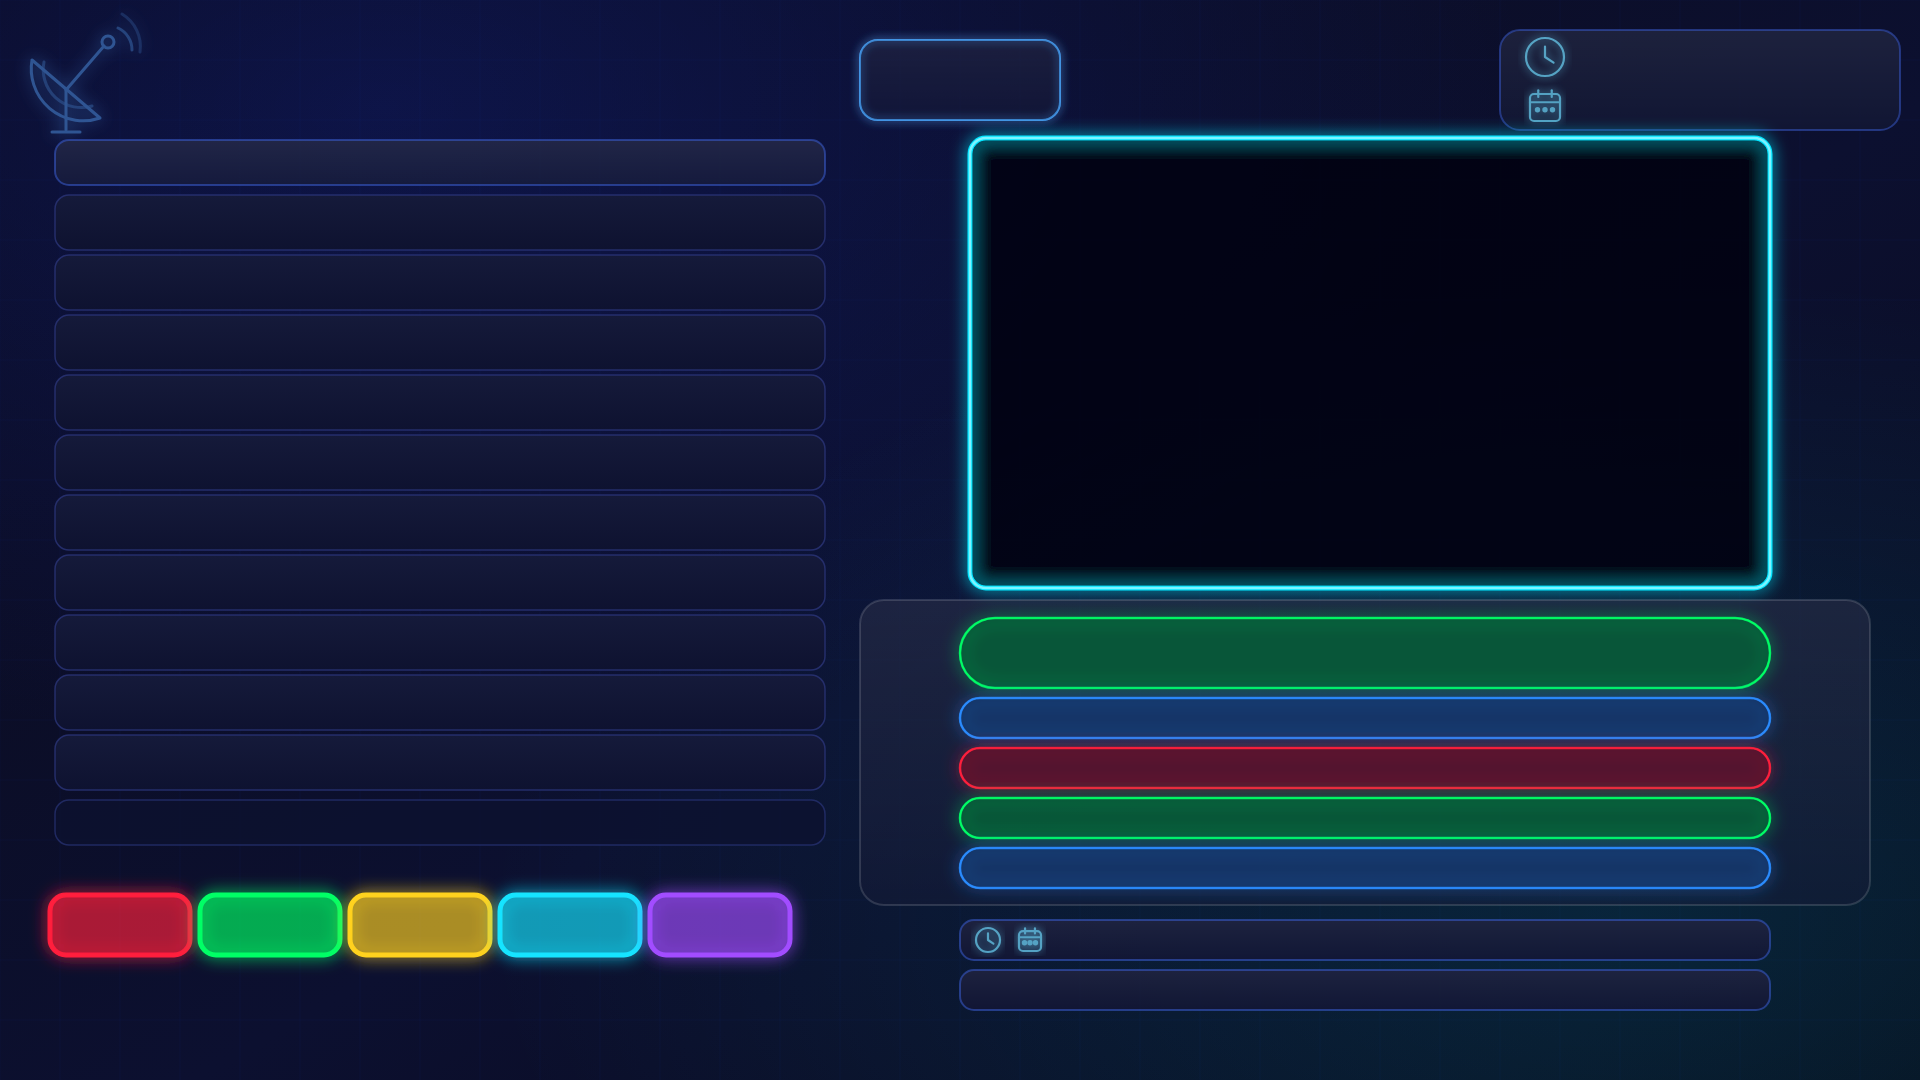
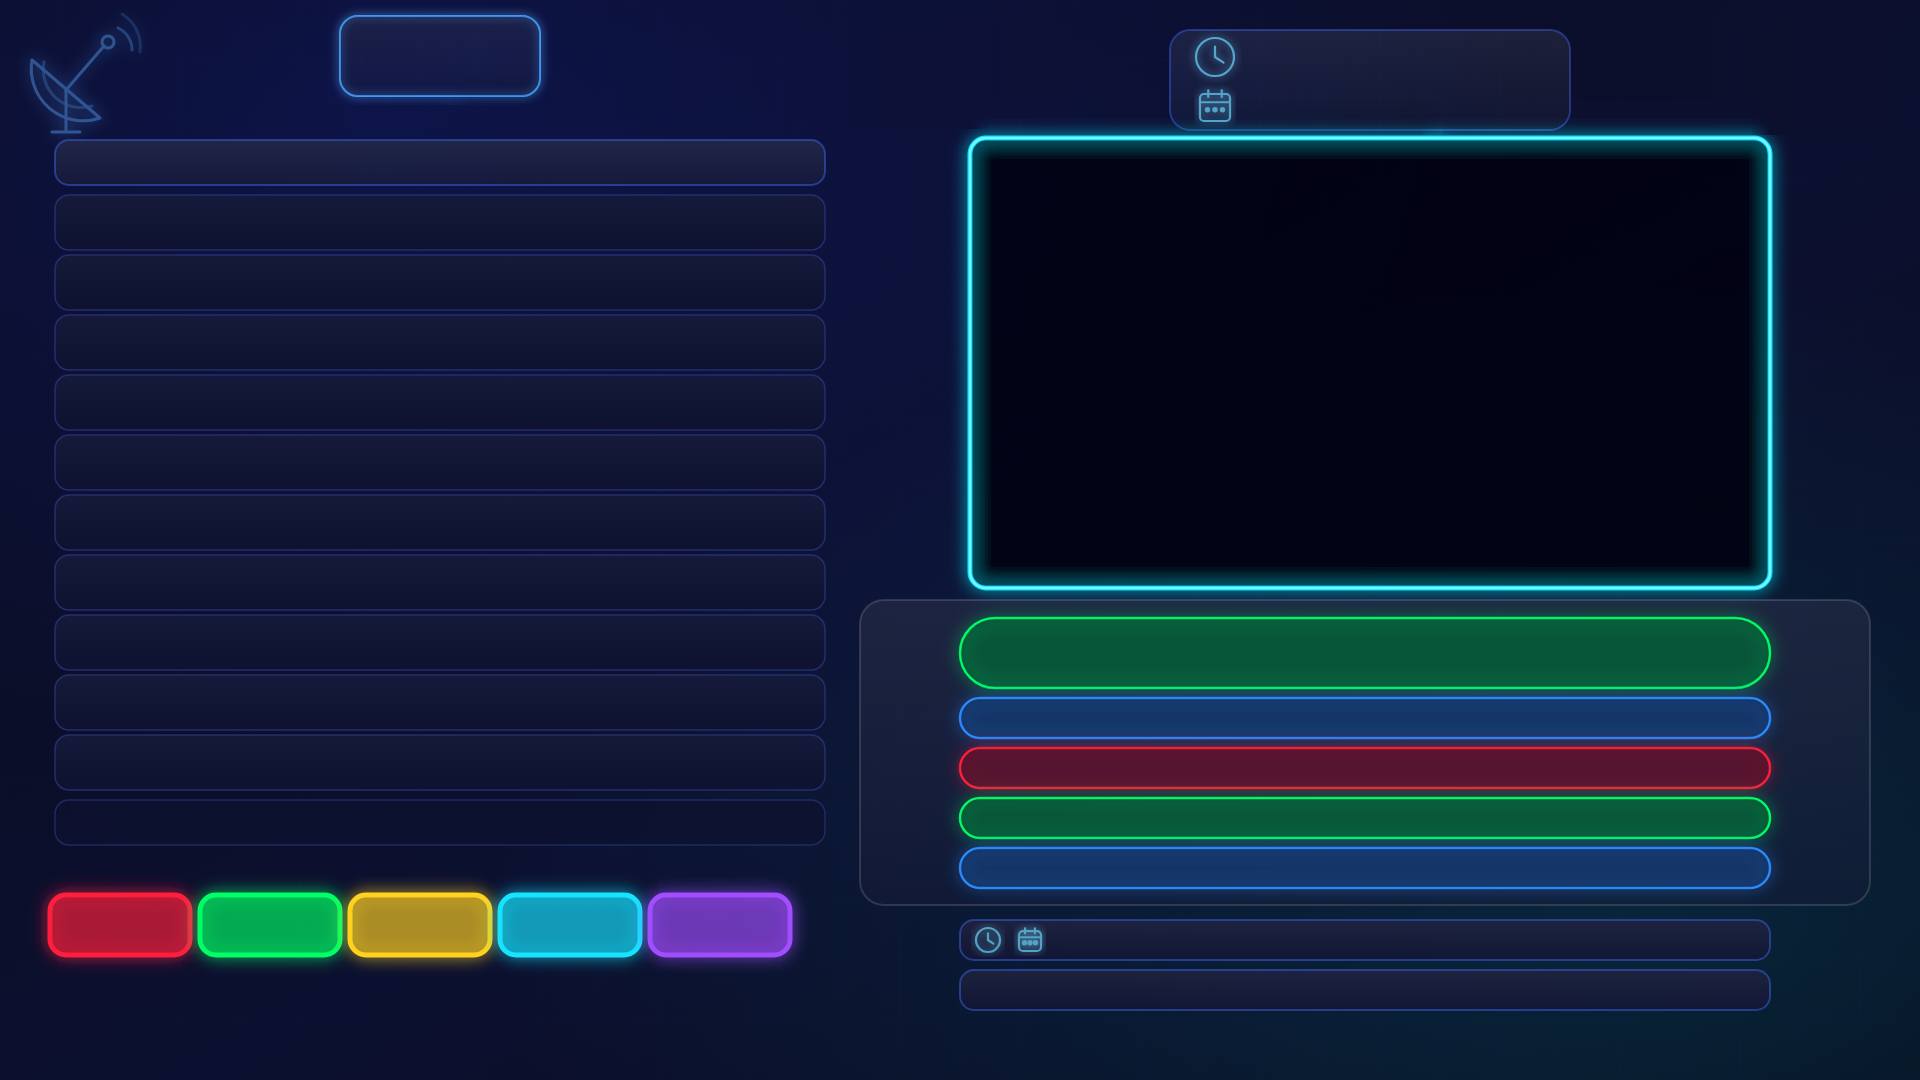
Add files via upload

diff --git a/plugin.py b/plugin.py
@@ -1377,20 +1377,20 @@ class PomBissList(Screen):
     <ePixmap name="bg_main" position="0,0" size="1920,1080" pixmap="''' + plugin_dir + '''/picon/bg_panel.png" alphatest="off" zPosition="-10" />
 
     <!-- Header Clock & Date -->
-    <widget source="global.CurrentTime" render="Label" position="1527,20" size="207,76" font="''' + POM_CLOCK_FONT + ''';72" transparent="1" foregroundColor="#e8f1f8" halign="right" valign="center" zPosition="3" noWrap="1">
+    <widget source="global.CurrentTime" render="Label" position="1197,20" size="207,76" font="''' + POM_CLOCK_FONT + ''';72" transparent="1" foregroundColor="#e8f1f8" halign="right" valign="center" zPosition="3" noWrap="1">
         <convert type="ClockToText">Format:%H:</convert>
     </widget>
-    <widget source="global.CurrentTime" render="Label" position="1734,20" size="150,76" font="''' + POM_CLOCK_FONT + ''';72" transparent="1" foregroundColor="#ff5f1f" halign="left" valign="center" zPosition="3" noWrap="1">
+    <widget source="global.CurrentTime" render="Label" position="1404,20" size="150,76" font="''' + POM_CLOCK_FONT + ''';72" transparent="1" foregroundColor="#ff5f1f" halign="left" valign="center" zPosition="3" noWrap="1">
         <convert type="ClockToText">Format:%M</convert>
     </widget>
-    <widget source="global.CurrentTime" render="Label" position="1525,88" size="400,40" font="Regular;22" transparent="1" foregroundColor="#00ffff" halign="center" valign="center">
+    <widget source="global.CurrentTime" render="Label" position="1195,88" size="400,40" font="Regular;22" transparent="1" foregroundColor="#00ffff" halign="center" valign="center">
         <convert type="ClockToText">Format:%A, %d %B %Y</convert>
     </widget>
 
     <!-- Logo & Title Area -->
-    <ePixmap name="title_logo" position="860,40" size="200,80" pixmap="''' + plugin_dir + '''/picon/PomBiss_logo.png" alphatest="on" zPosition="1" />
+    <ePixmap name="title_logo" position="340,16" size="200,80" pixmap="''' + plugin_dir + '''/picon/PomBiss_logo.png" alphatest="on" zPosition="1" />
 
-    <widget name="version_label" position="50,88" size="780,46" font="''' + POM_CLOCK_FONT + ''';28" transparent="1" foregroundColor="#00ffff" halign="center" valign="center" />
+    <widget name="version_label" position="50,100" size="780,40" font="''' + POM_CLOCK_FONT + ''';28" transparent="1" foregroundColor="#00ffff" halign="center" valign="center" />
 
     <!-- Left Panel (Feed List Header) -->
     <widget name="list_header" position="60,150" size="200,40" font="''' + POM_CLOCK_FONT + ''';22" transparent="1" foregroundColor="#00ff88" halign="left" valign="center" />
@@ -1513,8 +1513,15 @@ class PomBissList(Screen):
     <!-- Datetime Info -->
     <widget name="label_datetime" position="860,927" size="1010,25" font="''' + POM_CLOCK_FONT + ''';20" transparent="1" foregroundColor="#94a3b8" halign="center" valign="center" zPosition="1" />
 
-    <!-- Brand Label -->
-    <widget name="brand_label" position="960,972" size="810,35" font="Regular;24" transparent="1" foregroundColor="#ffffff" halign="center" valign="center" zPosition="1" />
+    <!-- Channels box (developer / channels / support) -->
+    <widget name="cb_border" position="960,965" size="810,84" font="Regular;1" transparent="0" backgroundColor="#2f6fbf" zPosition="-3" />
+    <widget name="cb_fill" position="962,967" size="806,80" font="Regular;1" transparent="0" backgroundColor="#0a1228" zPosition="-2" />
+    <widget name="cb_l1a" position="966,969" size="396,26" font="''' + POM_CLOCK_FONT + ''';20" transparent="1" foregroundColor="#00e5ff" halign="center" valign="center" zPosition="1" />
+    <widget name="cb_l1b" position="1368,969" size="396,26" font="''' + POM_CLOCK_FONT + ''';20" transparent="1" foregroundColor="#00e5ff" halign="center" valign="center" zPosition="1" />
+    <widget name="cb_l2a" position="966,995" size="396,26" font="''' + POM_CLOCK_FONT + ''';20" transparent="1" foregroundColor="#ffaa00" halign="center" valign="center" zPosition="1" />
+    <widget name="cb_l2b" position="1368,995" size="396,26" font="''' + POM_CLOCK_FONT + ''';20" transparent="1" foregroundColor="#ffaa00" halign="center" valign="center" zPosition="1" />
+    <widget name="cb_l3a" position="966,1021" size="396,26" font="''' + POM_CLOCK_FONT + ''';20" transparent="1" foregroundColor="#ff4d5e" halign="center" valign="center" zPosition="1" />
+    <widget name="cb_l3b" position="1368,1021" size="396,26" font="''' + POM_CLOCK_FONT + ''';20" transparent="1" foregroundColor="#e8f1f8" halign="center" valign="center" zPosition="1" />
 
     <!-- Navigation Help -->
     <widget name="nav_help" position="50,1025" size="780,40" font="Regular;18" transparent="1" foregroundColor="#dddddd" halign="center" valign="center" zPosition="1" />
@@ -1557,7 +1564,14 @@ class PomBissList(Screen):
         self["feed_count"] = Label("")
         self["header_text"] = Label("PomBiss Feed Viewer")
         self["page_counter"] = Label("[1/1]")
-        self["brand_label"] = Label("join us in Telegram @VUSOLO")
+        self["cb_border"] = Label("")
+        self["cb_fill"] = Label("")
+        self["cb_l1a"] = Label("Developer: @Shr776")
+        self["cb_l1b"] = Label("Main Channel: @VuSolo")
+        self["cb_l2a"] = Label("Support: @PomSat")
+        self["cb_l2b"] = Label("Feed: @PomFeed / @FeedHunter")
+        self["cb_l3a"] = Label("YouTube: @VUSOLO")
+        self["cb_l3b"] = Label("GitHub: Shr776 / PomBiss")
         self["version_label"] = Label("PomBiss Plugin v%s" % self.PLUGIN_VERSION)
         self["title_logo"] = Pixmap()
         self["bg_select"] = Pixmap()
